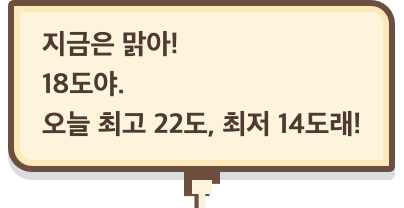
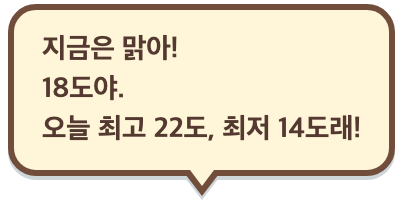
다마고치 설명 페이지의 말풍선 그림을 새 모양으로 교체
앱에서 바뀐 크림색 둥근 말풍선(세모 꼬리)으로 바꾸고, 꼬리가 펫 머리 위에 오게 자리를 맞췄다.

Changed region(s): [[0.0, 0.0, 0.9802, 1.0], [0.0891, 0.33, 0.8911, 0.72], [0.0891, 0.15, 0.4455, 0.3]]

diff --git a/projects/tamagotchi.html b/projects/tamagotchi.html
@@ -146,7 +146,7 @@
         <article class="feat">
           <h3><span class="no mono">07</span>날씨 안내 말풍선</h3>
           <div class="feat-media" role="img" aria-label="우파루파가 말풍선으로 지금은 맑고 18도라고 알려 주는 모습">
-            <img class="place" style="left:7%;top:9%;width:56%;height:auto" src="assets/tamagotchi/bubble-weather.png" alt="" width="404" height="208" loading="lazy">
+            <img class="place" style="left:calc(18% + var(--s) * 16px);top:9%;width:56%;height:auto" src="assets/tamagotchi/bubble-weather.png?v=2" alt="" width="404" height="200" loading="lazy">
             <span class="place" style="left:46%;bottom:6%"><img class="sprite" style="--w:32" src="assets/tamagotchi/axolotl.png" alt="" width="32" height="32" loading="lazy"></span>
           </div>
           <p>펫에게 말을 걸면 오늘 날씨와 기온을 말풍선으로 알려 줍니다. 비가 오는 날에는 우산을 챙기라고 안내합니다.</p>
